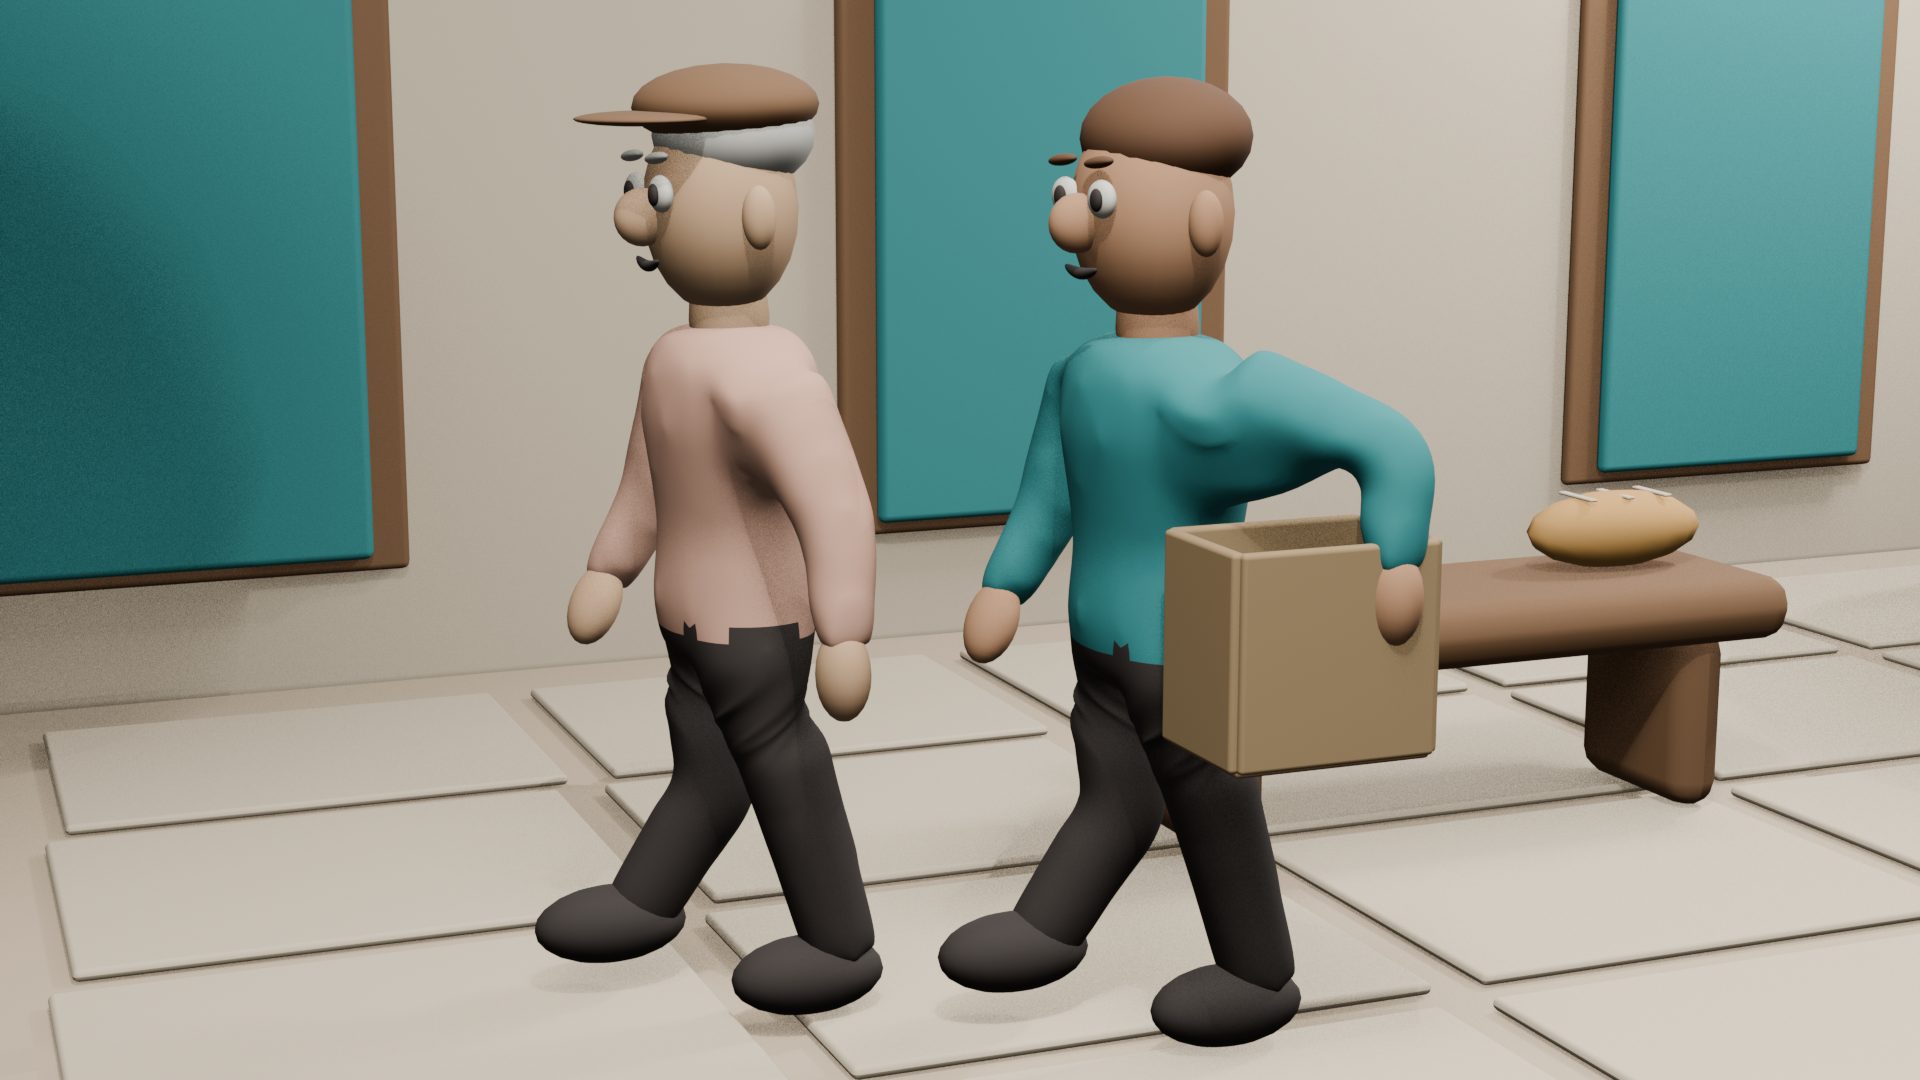
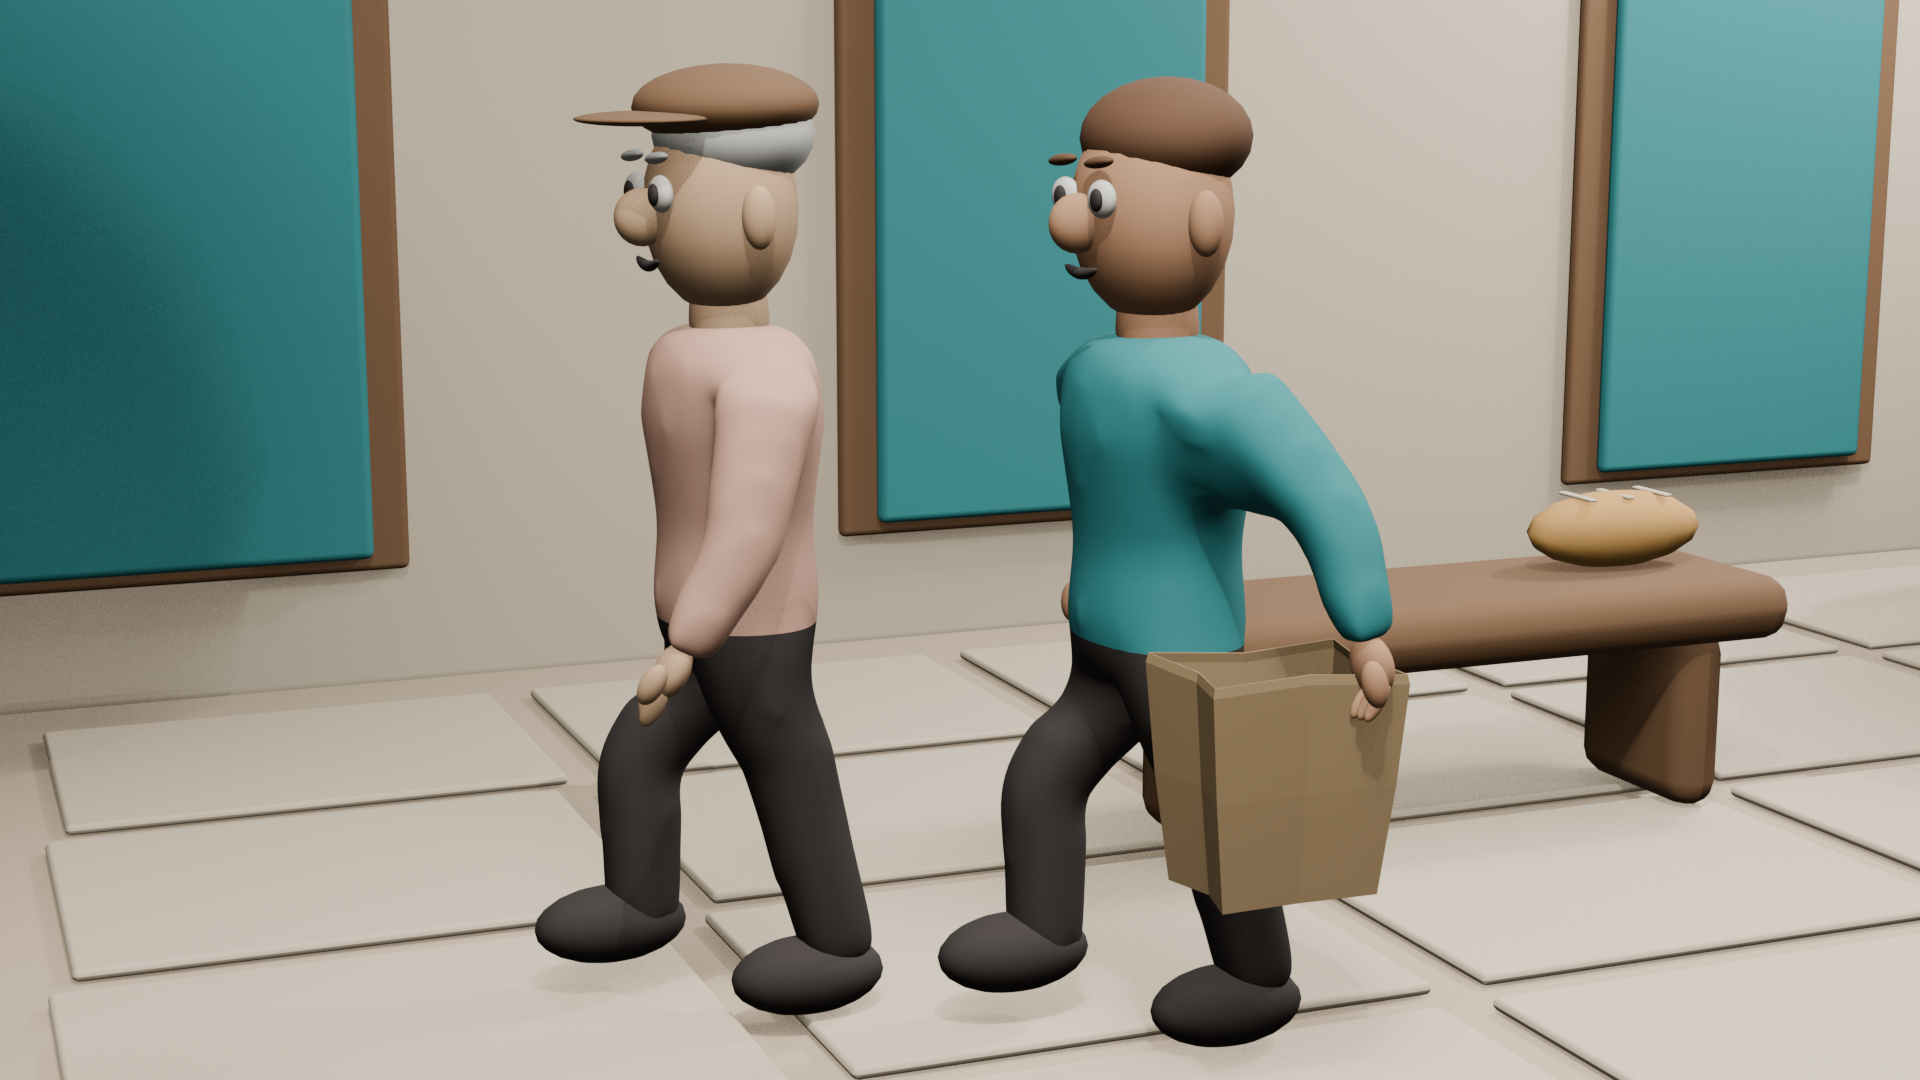
Fix tailored skin, grounded kneeling, prop reach and authored camera staging (#192)

Changed region(s): [[0.5, 0.3056, 0.75, 0.8556], [0.2812, 0.3361, 0.4688, 0.8556], [0.5, 0.3361, 0.5625, 0.6111]]

diff --git a/migration/production/animation/the-bag-he-almost-passed/render-bundle/production.py b/migration/production/animation/the-bag-he-almost-passed/render-bundle/production.py
@@ -53,12 +53,22 @@ for ob in bpy.data.objects:
     if ob.name.startswith('Bench'):ob.location.x-=2.8
 bag.hide_render=True
 bagroot=bpy.data.objects.new('Paper bag',None);bpy.context.collection.objects.link(bagroot)
-for name,pos,size in [('bottom',(0,0,.02),(.42,.29,.04)),('front',(0,-.145,.22),(.42,.03,.42)),('back',(0,.145,.22),(.42,.03,.42)),('left',(-.21,0,.22),(.03,.29,.42)),('right',(.21,0,.22),(.03,.29,.42))]:
-    obj=box('Paper '+name,pos,size,'bag',.01);obj.parent=bagroot
+# Open, tapered paper shell with gusset folds and an irregular rolled rim.
+verts=[];faces=[]
+outline=[(-1,-1),(0,-.94),(1,-1),(.82,0),(1,1),(0,.94),(-1,1),(-.82,0)]
+for layer,(z,scale) in enumerate([(0,.80),(.22,.92),(.43,1),(.45,.98)]):
+    for j,(x,y) in enumerate(outline):verts.append((x*.21*scale,y*.145*scale,z+(.009*math.sin(j*2.3) if layer>=2 else 0)))
+for layer in range(3):
+    for j in range(8):faces.append((layer*8+j,layer*8+(j+1)%8,(layer+1)*8+(j+1)%8,(layer+1)*8+j))
+faces.append(tuple(reversed(range(8))))
+mesh=bpy.data.meshes.new('Folded paper shell');mesh.from_pydata(verts,[],faces);mesh.update()
+obj=bpy.data.objects.new('Paper gusset bag',mesh);bpy.context.collection.objects.link(obj);obj.parent=bagroot;obj.data.materials.append(M['bag'])
+solid=obj.modifiers.new('Paper thickness','SOLIDIFY');solid.thickness=.003
+bevel=obj.modifiers.new('Soft paper folds','BEVEL');bevel.width=.006;bevel.segments=2
 loaves=[bread,uv('Wrapped loaf A',(0,0,0),(.24,.11,.10),'white'),uv('Wrapped loaf B',(0,0,0),(.24,.11,.10),'white')]
 young=Character('Daniel',False,M);elder=Character('Eli',True,M)
 # Exact story endpoints: bench at x=0, distance specified in metres.
-DX=[-9,-6,-3,1,4,5,5,1,.7,.7,.7,.7,-.7,-2.1,-4,-4.7]
+DX=[-9,-6,-3,1,4,5,5,1,.7,.7,.7,-.3,-.7,-2.1,-4,-4.7]
 EY=.35
 
 
@@ -66,13 +76,24 @@ def set_camera(index,u,dx,ex,vertical):
     # Perspective lenses and independent portrait composition.
     target=Vector(((dx+ex)/2,0,1.05));lens=50;location=target+Vector((2,-6,2))
     if index==0: lens=28;target=Vector(((dx+ex)/2,0,1));location=target+Vector((0,-12,2.3))
-    elif index in [1,3,7,8,9]:target=Vector((.35,0,.9));location=target+Vector((1.7,-5,1.4))
-    elif index==2:target=Vector(((dx+ex)/2,0,1.1));location=target+Vector((2.2,-6.5+u*.15,1.0));lens=45
-    elif index in [4,5]:target=Vector((dx,0,1.55));location=target+Vector((.8,-3, .4));lens=65
-    elif index==6:target=Vector((dx,0,1.1));location=target+Vector((0,-6,1.2))
-    elif index in [10,11]:location=target+Vector((0,-5.5,1.0))
+    elif index==1:target=Vector((ex,.1,1));location=target+Vector((1.7+.08*u,-5,1.0))
+    elif index==2:
+        target=Vector((ex,0,1.25));location=Vector((dx-1.6,-2.8,1.65));location=target+(location-target)*(1-.03*u);lens=40
+    elif index==3:target=Vector((.05,-.4,.30));location=Vector((1.4,-4,.30));lens=85
+    elif index==4:
+        target=Vector((dx,0,1.25));angle=math.radians(10*u);location=target+Vector((3*math.sin(angle),-3*math.cos(angle),.35));lens=50
+    elif index==5:target=Vector((dx,0,1.65));location=target+Vector((.4,-2.5,.10));lens=85
+    elif index==6:target=Vector((dx,0,1.1));location=target+Vector((0,-6,1.0))
+    elif index==7:target=Vector((.35,-.1,.85));location=target+Vector((-3,-4,.10))*(1-.03*u);lens=35
+    elif index==8:target=Vector((.5,-.4,.45));location=target+Vector((1.4,-3,.7));lens=100
+    elif index==9:target=Vector((.5,-.15,.95));location=target+Vector((1.3,-3,.4));lens=85
+    elif index==10:location=target+Vector((0,-5.5-.5*u,1.0))
+    elif index==11:location=target+Vector((0,-5.5,1.0))
     elif index==12:location=target+Vector((-2,-5,1.0))
     elif index>=13:lens=24;location=target+Vector((4,4,3+u+(1 if index==14 else 0)));target.z=.8
+    cam.data.dof.use_dof=index==5
+    if index==5:
+        cam.data.dof.aperture_fstop=5.6;cam.data.dof.focus_distance=mix((location-target).length,(location-Vector((ex,EY,1))).length,u)
     cam.data.type='PERSP';cam.data.lens=lens
     if vertical:
         # Own camera, fitted to both models and action, never a master crop.
@@ -91,46 +112,51 @@ def scene(frame,vertical):
     # S14 alone freezes its declared final two seconds.
     if index==13:local=min(local,max(0,duration-2))
     u=local/max(1/24,duration-(2 if index==13 else 0));t=(start/24)+local-(2 if index==14 else 0)
-    dx=mix(DX[index],DX[index+1],u);ex=0 if index<11 else dx-.75
+    dx=mix(DX[index],DX[index+1],u);ex=0 if index<10 else mix(0,dx-.75,u) if index==10 else dx-.75
     walk=(t*6 if index<3 else t*4) if index in [0,1,2,3,6,10,11,12,13,14] else 0
-    db=(smooth(u) if index==7 else 1 if index==8 else 1-smooth(u) if index==9 else 0)
+    db=(smooth(u/.45) if index==7 else 1 if index==8 else 1-smooth(u) if index==9 else 0)
     eb=smooth(u) if index==3 else 1 if 4<=index<=7 else 1-smooth(u) if index==8 else 0
-    yaw=math.pi/2 if index<4 else mix(math.pi/2,0,u) if index==4 else 0 if index==5 else -math.pi/2 if index==6 else 0 if index<11 else -math.pi/2
+    yaw=math.pi/2 if index<4 else mix(math.pi/2,-math.pi/2,u) if index==4 else -math.pi/2 if index==5 else mix(-math.pi/2,0,smooth((u-.7)/.3)) if index==6 else 0 if index<11 else -math.pi/2
+    if index==7:dx-=.55*math.sin(math.pi*u)
     young.pose(dx,-.15,yaw,t,walk,db,1 if 7<=index<=10 else 0,smooth(u) if index==12 else .5 if index>9 else 0)
-    elder.pose(ex,EY,-math.pi/2 if index>=11 else 0,t,t*4 if index>=11 else 0,eb,.5 if index in [0,1,8,9,10] else 0,.6 if index>=8 else 0)
+    elder.pose(ex,EY,-math.pi/2 if index>=11 else 0,t,t*4 if index>=10 else 0,eb,.5 if index in [0,1,8,9,10] else 0,.6 if index>=8 else 0)
     ground=[(-.35,-.55,.11),(.05,-.50,.11),(.42,-.65,.11)]
-    bagroot.location=(ex+.22,0,.67);bagroot.rotation_euler=(0,0,0)
+    gathered=[(0,-.65,.12),(.4,-.5,.12),(.78,-.65,.12)]
+    bagroot.location=(ex+.22,0,.67-.35*eb);bagroot.rotation_euler=(0,0,0)
     if index==1:bagroot.rotation_euler.y=mix(0,.7,u)
     if 2<=index<=7:bagroot.rotation_euler.y=.7
-    if index>=10:bagroot.location=(dx+.10,-.58,.70)
+    if index==8:bagroot.rotation_euler.y=.7*(1-smooth(u))
+    if index<=10:bagroot.location.x-=.24*(bagroot.rotation_euler.y/.7);bagroot.location.y=.10
+    if index==10:bagroot.location=bagroot.location.lerp(Vector((dx+.05,-.58,.43)),smooth(u))
+    if index>=11:bagroot.location=(dx+.05,-.58,.43)
     for k,obj in enumerate(loaves):
         obj.hide_render=False
-        if k>0:obj.scale.x=.17 if index>=9 else .24;obj.scale.y=.09 if index>=9 else .11
+        if k>0:obj.scale.x=.13 if index>=9 else .17;obj.scale.y=.07 if index>=9 else .09
         if index==0:obj.location=(.22,0,.90+k*.035)
         elif index==1:
             v=smooth((u-.15-k*.12)/.55);obj.location=Vector((.22,0,.90)).lerp(Vector(ground[k]),v)
         elif index<=6:obj.location=ground[k]
-        elif index==7:obj.location=Vector(ground[k]).lerp(Vector((.4+k*.16,-.55,.12)),smooth(u))
+        elif index==7:obj.location=Vector(ground[k]).lerp(Vector(gathered[k]),smooth((u-(.4 if k==0 else .7))/(.3 if k==0 else .3)))
         elif index==8:
             target=(.55,1,.75) if k==0 else (.65+(k-1)*.15,-.45,.90)
-            obj.location=Vector((.4+k*.16,-.55,.12)).lerp(Vector(target),smooth(u))
+            obj.location=Vector(gathered[k]).lerp(Vector(target),smooth(u))
         elif index==9:
-            obj.location=(.55,1,.75) if k==0 else Vector((.65+(k-1)*.15,-.45,.90)).lerp(Vector((.22,0,.90)),smooth(u))
+            obj.location=(.55,1,.75) if k==0 else Vector((.65+(k-1)*.15,-.45,.90)).lerp(bagroot.location+Vector((0,0,.23+(k-1)*.04)),smooth(u))
         else:
             obj.location=(.55,1,.75) if k==0 else bagroot.location+Vector((0,0,.23+(k-1)*.04))
     # Constrain wrists to actual carried props rather than detached gestures.
-    if index in [0,1,2,3,4,5,6,7,8,9]:
-        elder.hand(1,bagroot.location+Vector((.16,-.14,.36)))
-    if index>=10:
-        young.hand(1,bagroot.location+Vector((.12,-.14,.34)))
-    if index==7:
-        young.hand(-1,loaves[1].location+Vector((0,0,.06)))
-        young.hand(1,loaves[2].location+Vector((0,0,.06)))
+    if index<=9 or (index==10 and u<.5):
+        elder.hand(1,bagroot.location+bagroot.rotation_euler.to_matrix()@Vector((.15,-.145,.43))+Vector((0,0,.055)))
+    if index>=11 or (index==10 and u>=.5):
+        young.hand(1,bagroot.location+Vector((.12,-.145,.485)))
+    if index==7 and u>=.35:
+        young.hand(-1,loaves[0 if u<.7 else 1].location+Vector((0,0,.16)))
+        young.hand(1,loaves[2].location+Vector((0,0,.16)))
     if index==8:
-        young.hand(-1,loaves[1].location+Vector((0,0,.04)))
-        young.hand(1,loaves[2].location+Vector((0,0,.04)))
+        young.hand(-1,loaves[1].location+Vector((0,0,.16)))
+        young.hand(1,loaves[2].location+Vector((0,0,.16)))
     if index==9:
-        young.hand(-1,loaves[1].location+Vector((0,0,.04)))
+        young.hand(-1,loaves[1].location+Vector((0,0,.16)))
     set_camera(index,u,dx,ex,vertical)
     # Scene15 fade is composited by assembly; body and camera keep moving.
     s.frame_set(math.floor(frame)+1,subframe=frame-math.floor(frame));bpy.context.view_layer.update()

diff --git a/migration/production/animation/the-bag-he-almost-passed/render-bundle/characters.py b/migration/production/animation/the-bag-he-almost-passed/render-bundle/characters.py
@@ -31,10 +31,17 @@ class Character:
         remesh=body.modifiers.new('Unified tailored topology','REMESH');remesh.mode='VOXEL';remesh.voxel_size=.035
         bpy.ops.object.modifier_apply(modifier=remesh.name)
         smooth=body.modifiers.new('Relax surface','SMOOTH');smooth.factor=.8;smooth.iterations=4;bpy.ops.object.modifier_apply(modifier=smooth.name)
-        body.data.materials.append(materials['red' if old else 'teal']);body.data.materials.append(materials['dark'])
-        for poly in body.data.polygons:
-            poly.use_smooth=True
-            if poly.center.z<.84:poly.material_index=1
+        # Interpolated rest-height avoids jagged polygon-by-polygon trouser hems.
+        rest=body.data.attributes.new('tailored_height','FLOAT','POINT')
+        for vertex,item in zip(body.data.vertices,rest.data):item.value=vertex.co.z
+        cloth=materials['red' if old else 'teal'].copy();cloth.name=name+' continuous tailoring';cloth.use_nodes=True
+        nodes=cloth.node_tree.nodes;links=cloth.node_tree.links;shader=nodes.get('Principled BSDF')
+        attr=nodes.new('ShaderNodeAttribute');attr.attribute_name='tailored_height'
+        threshold=nodes.new('ShaderNodeMath');threshold.operation='GREATER_THAN';threshold.inputs[1].default_value=.84
+        mix=nodes.new('ShaderNodeMixRGB');mix.inputs[1].default_value=materials['dark'].diffuse_color;mix.inputs[2].default_value=shader.inputs['Base Color'].default_value[:]
+        links.new(attr.outputs['Fac'],threshold.inputs[0]);links.new(threshold.outputs[0],mix.inputs[0]);links.new(mix.outputs[0],shader.inputs['Base Color'])
+        body.data.materials.append(cloth)
+        for poly in body.data.polygons:poly.use_smooth=True
         arm=bpy.data.armatures.new(name+' skeleton');rig=bpy.data.objects.new(name+' rig',arm);bpy.context.collection.objects.link(rig)
         bpy.context.view_layer.objects.active=rig;bpy.ops.object.mode_set(mode='EDIT')
         definitions={'pelvis':((0,0,.77),(0,0,.95),None),'spine':((0,0,.95),(0,0,1.38),'pelvis'),'head':((0,0,1.38),(0,0,1.85),'spine')}
@@ -72,7 +79,7 @@ class Character:
             self.targets[side]=(target,constraint)
             foot=bpy.data.objects.new(name+' foot target '+str(side),None);bpy.context.collection.objects.link(foot)
             pole=bpy.data.objects.new(name+' knee pole '+str(side),None);bpy.context.collection.objects.link(pole)
-            ik=rig.pose.bones['shin'+str(side)].constraints.new('IK');ik.target=foot;ik.pole_target=pole;ik.chain_count=2;ik.use_stretch=False;ik.pole_angle=math.pi/2
+            ik=rig.pose.bones['shin'+str(side)].constraints.new('IK');ik.target=foot;ik.chain_count=2;ik.use_stretch=False
             self.feet[side]=(foot,pole)
         def attach(ob,key,bone):
             ob.parent=rig
@@ -97,7 +104,13 @@ class Character:
             ellipsoid('eye'+suffix,(side*.075,-.164,1.74),(.045,.022,.038),'white')
             ellipsoid('pupil'+suffix,(side*.075,-.186,1.74),(.019,.01,.023),'dark')
             ellipsoid('brow'+suffix,(side*.075,-.17,1.80),(.052,.018,.012),'gray' if old else 'hair')
-            ellipsoid('hand'+suffix,(side*.49,-.03,.79),(.065,.055,.095),skin,'forearm'+suffix)
+            ellipsoid('hand'+suffix,(side*.49,-.03,.79),(.055,.035,.062),skin,'forearm'+suffix)
+            for finger in range(4):
+                ob=ellipsoid('finger'+suffix+str(finger),(side*.49+(finger-1.5)*.024,-.035,.721),(.014,.021,.048),skin,'forearm'+suffix)
+                ob.shape_key_add(name='Basis');grip=ob.shape_key_add(name='Grip')
+                for vertex in grip.data:
+                    amount=max(0,(.755-vertex.co.z)/.08);vertex.co.y-=.045*amount;vertex.co.z+=.025*amount
+            ellipsoid('thumb'+suffix,(side*.545,-.065,.77),(.026,.025,.046),skin,'forearm'+suffix)
             ellipsoid('shoe'+suffix,(side*.15,-.075,.10),(.095,.17,.085),'dark','shin'+suffix)
             shoe=self.features['shoe'+suffix];shoe.parent=None
             for modifier in list(shoe.modifiers):shoe.modifiers.remove(modifier)
@@ -117,17 +130,17 @@ class Character:
             ob=self.features[key];look=ob.shape_key_add(name='Look')
             for vertex in look.data:vertex.co.x+=.018
     def pose(self,x,y,yaw,t,walk=0,bend=0,gesture=0,smile=0):
-        self.rig.location=(x,y,-.43*bend+.018*math.sin(t*2.1)+.015*abs(math.sin(walk)))
+        self.rig.location=(x,y,-.45*bend+.018*math.sin(t*2.1)+.015*abs(math.sin(walk)))
         self.rig.rotation_euler.z=yaw
         for bone in self.rig.pose.bones:bone.rotation_mode='XYZ';bone.rotation_euler=(0,0,0)
         for target,constraint in self.targets.values():constraint.influence=0
-        p=self.rig.pose.bones;p['pelvis'].rotation_euler.y=.035*math.sin(walk);p['spine'].rotation_euler.x=.5*bend+.018*math.sin(t*2.1)
+        p=self.rig.pose.bones;p['pelvis'].rotation_euler.y=.035*math.sin(walk);p['spine'].rotation_euler.x= (.75 if self.old else 1.15)*bend+.018*math.sin(t*2.1)
         p['head'].rotation_euler.x=-.18*bend+.025*math.sin(t*.8);p['head'].rotation_euler.y=.12*math.sin(t*.7)
         for side in [-1,1]:
             suffix=str(side);phase=math.sin(walk)*side if walk else 0
-            p['thigh'+suffix].rotation_euler.x=.48*phase-.65*bend
+            p['thigh'+suffix].rotation_euler.x=-.48*phase-.65*bend
             p['shin'+suffix].rotation_euler.x=max(0,-phase)*.65+1.05*bend
-            p['arm'+suffix].rotation_euler.x=-.35*phase-.55*gesture-.45*bend
+            p['arm'+suffix].rotation_euler.x=.35*phase-.55*gesture-.45*bend
             p['forearm'+suffix].rotation_euler.x=-.28-.6*gesture-.45*bend
             p['arm'+suffix].rotation_euler.z=side*(.04+.03*math.sin(t))
             foot,pole=self.feet[side]
@@ -142,6 +155,7 @@ class Character:
         for key,ob in self.features.items():
             if ob.data.shape_keys:
                 keys=ob.data.shape_keys.key_blocks
+                if 'Grip' in keys:keys['Grip'].value=0
                 if 'Blink' in keys:keys['Blink'].value=blink
                 if 'Look' in keys:keys['Look'].value=.5+.5*math.sin(t*.7)
                 if 'Smile' in keys:keys['Smile'].value=smile
@@ -149,3 +163,4 @@ class Character:
 
     def hand(self,side,position):
         target,constraint=self.targets[side];target.location=position;constraint.influence=1
+        for finger in range(4):self.features['finger'+str(side)+str(finger)].data.shape_keys.key_blocks['Grip'].value=1

diff --git a/migration/production/animation/the-bag-he-almost-passed/render-bundle/test_rig.py b/migration/production/animation/the-bag-he-almost-passed/render-bundle/test_rig.py
@@ -1,0 +1,46 @@
+"""Blender-only evaluated pose tests; not a substitute for watched visual QA.
+Run: blender -b --python test_rig.py (writes only to a temporary RENDER_OUT).
+"""
+import json, os, sys, tempfile, unittest
+from pathlib import Path
+try:
+    import bpy
+except ImportError:
+    bpy=None
+
+@unittest.skipIf(bpy is None,'requires pinned Blender 4.3.2')
+class RigTests(unittest.TestCase):
+    @classmethod
+    def setUpClass(cls):
+        cls.temp=tempfile.TemporaryDirectory();os.environ['RENDER_OUT']=cls.temp.name
+        root=Path(__file__).resolve().parent;story=json.loads((root/'story.json').read_text());cursor=0;rows=[]
+        for row in story['scenes']:
+            end=cursor+round(row['target_seconds']*24);rows.append({'id':row['id'],'first_frame':cursor,'end_frame':end});cursor=end
+        timing=Path(cls.temp.name)/'timing.json';timing.write_text(json.dumps({'fps':24,'frames_total':cursor,'scenes':rows}))
+        sys.argv=['production.py','--','master','0','1','--timing',str(timing)]
+        path=root/'production.py';cls.g={'__file__':str(path)}
+        # Build the same production scene without invoking the render loop.
+        exec(compile(path.read_text().split('\njobs=[]')[0],str(path),'exec'),cls.g)
+    @classmethod
+    def tearDownClass(cls):cls.temp.cleanup()
+    def test_evaluated_wrist_reach(self):
+        for frame in [600,1848,1919,1967,2088,2328,2568,3048]:
+            self.g['scene'](frame,False)
+            for who in ['young','elder']:
+                c=self.g[who]
+                for side,(target,constraint) in c.targets.items():
+                    if constraint.influence:
+                        wrist=c.rig.matrix_world@c.rig.pose.bones['forearm'+str(side)].tail
+                        self.assertLess((wrist-target.location).length,.03,(frame,who,side))
+    def test_kneeling_clearance_and_tailoring(self):
+        self.g['scene'](1967,False)
+        for who in ['young','elder']:
+            c=self.g[who]
+            self.assertIn('tailored_height',c.body.data.attributes)
+            for side in [-1,1]:
+                knee=c.rig.matrix_world@c.rig.pose.bones['shin'+str(side)].head
+                self.assertGreater(knee.z,.10)
+                self.assertIn('Grip',c.features['finger'+str(side)+'0'].data.shape_keys.key_blocks)
+        self.assertEqual(self.g['s'].eevee.taa_render_samples,64)
+
+if __name__=='__main__':unittest.main(argv=[sys.argv[0]])

diff --git a/migration/production/animation/the-bag-he-almost-passed/render-bundle/scene_base.py b/migration/production/animation/the-bag-he-almost-passed/render-bundle/scene_base.py
@@ -3,7 +3,7 @@ from mathutils import Vector
 
 bpy.ops.object.select_all(action='SELECT');bpy.ops.object.delete(use_global=False)
 s=bpy.context.scene;s.render.engine='BLENDER_EEVEE_NEXT';s.cycles.samples=12;s.cycles.use_denoising=False;s.cycles.max_bounces=3
-s.eevee.taa_render_samples=32
+s.eevee.taa_render_samples=64
 s.render.resolution_x=768;s.render.resolution_y=432;s.render.resolution_percentage=100
 s.render.image_settings.file_format='PNG';s.world.color=(.32,.32,.32)
 s.view_settings.view_transform='AgX'
